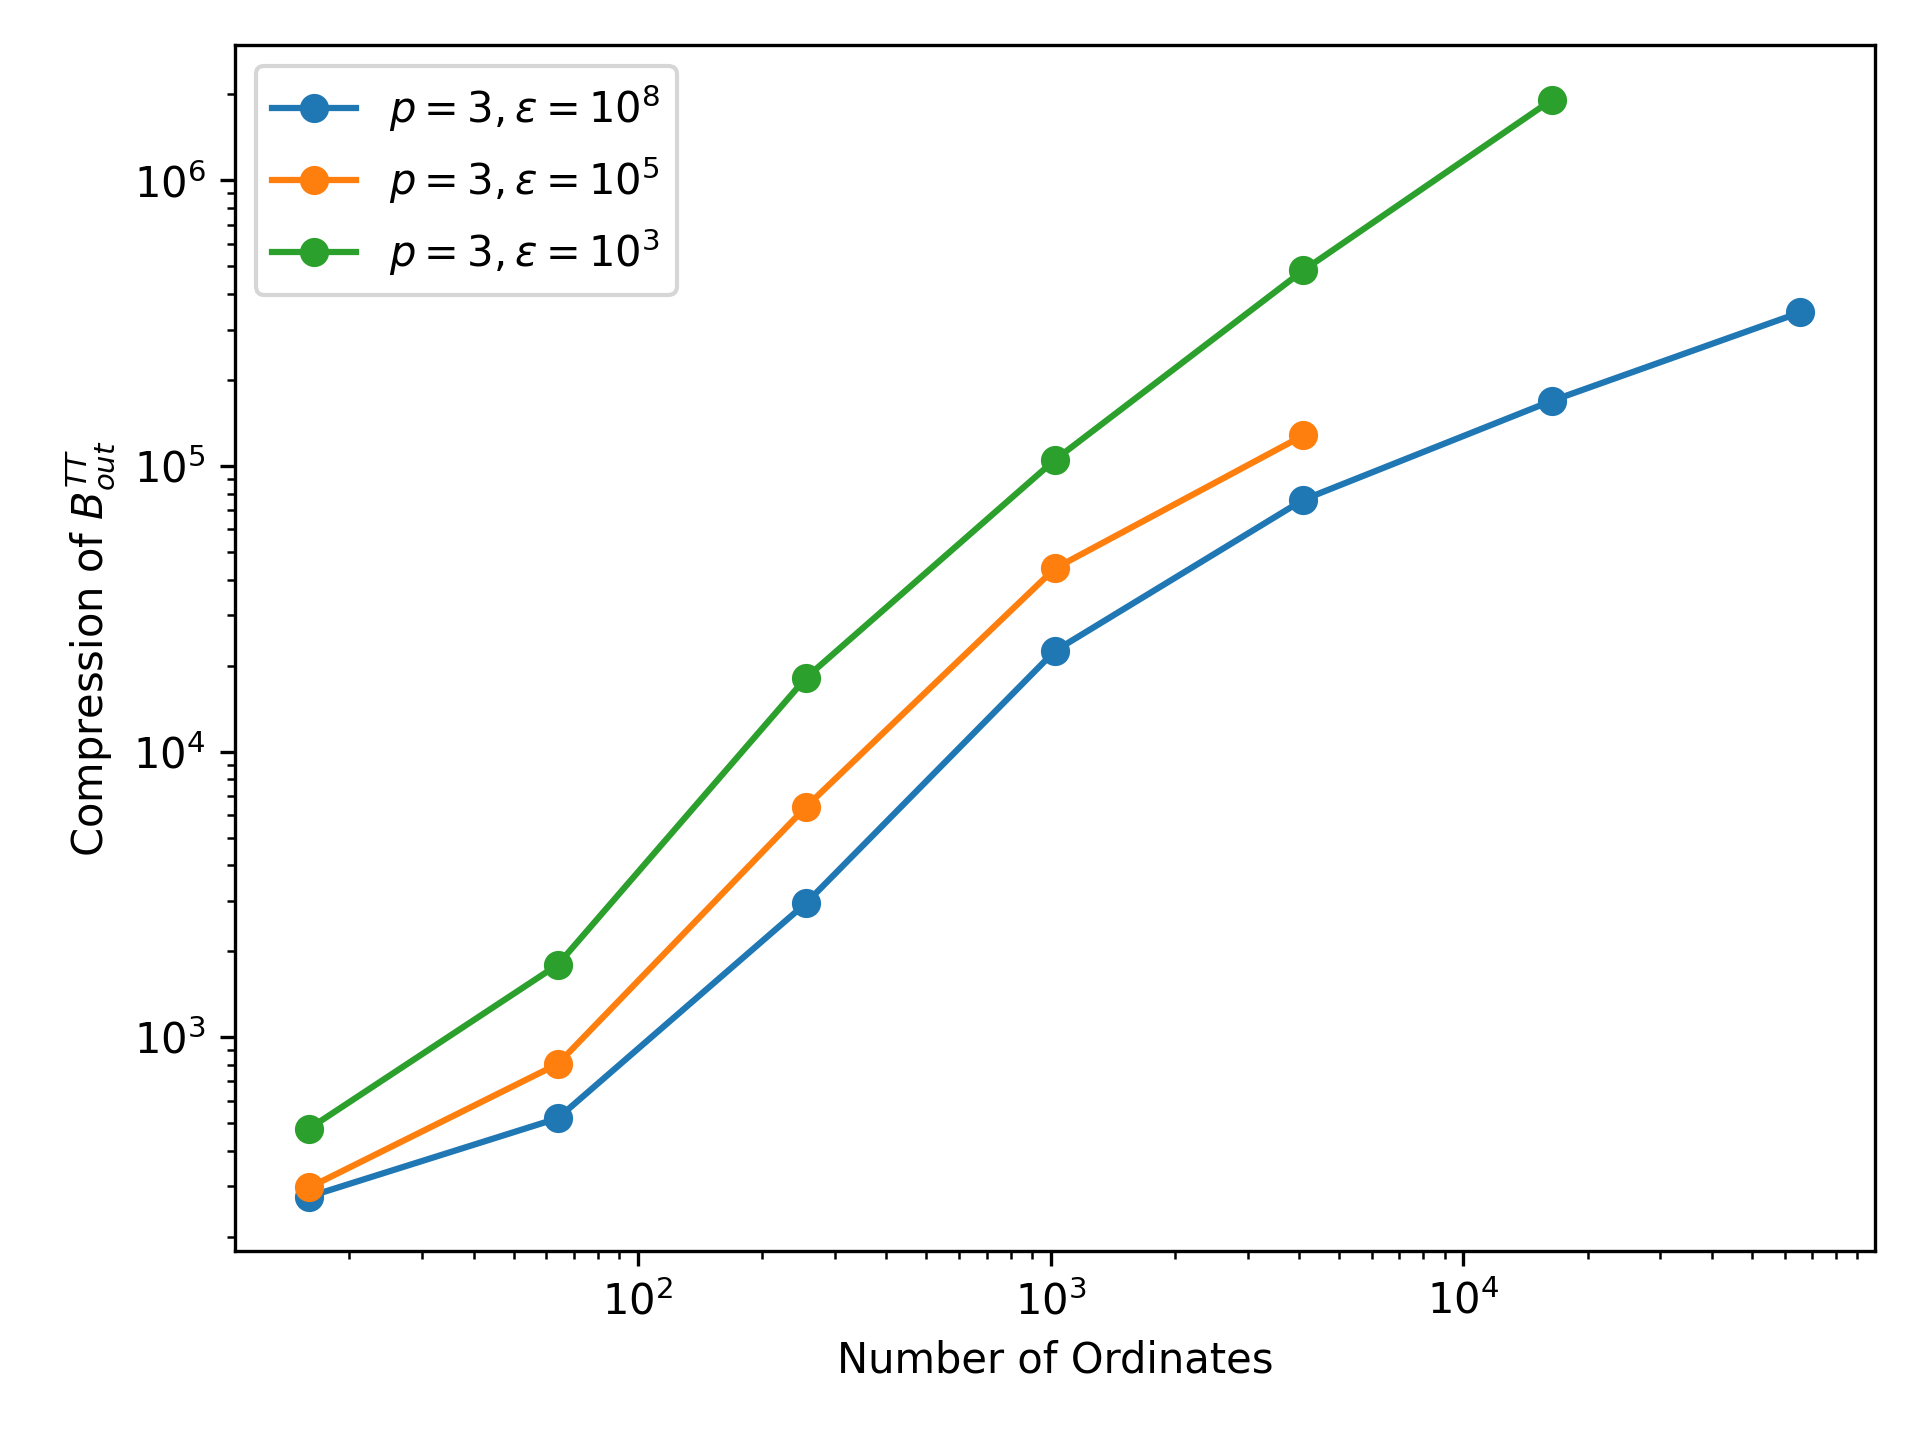
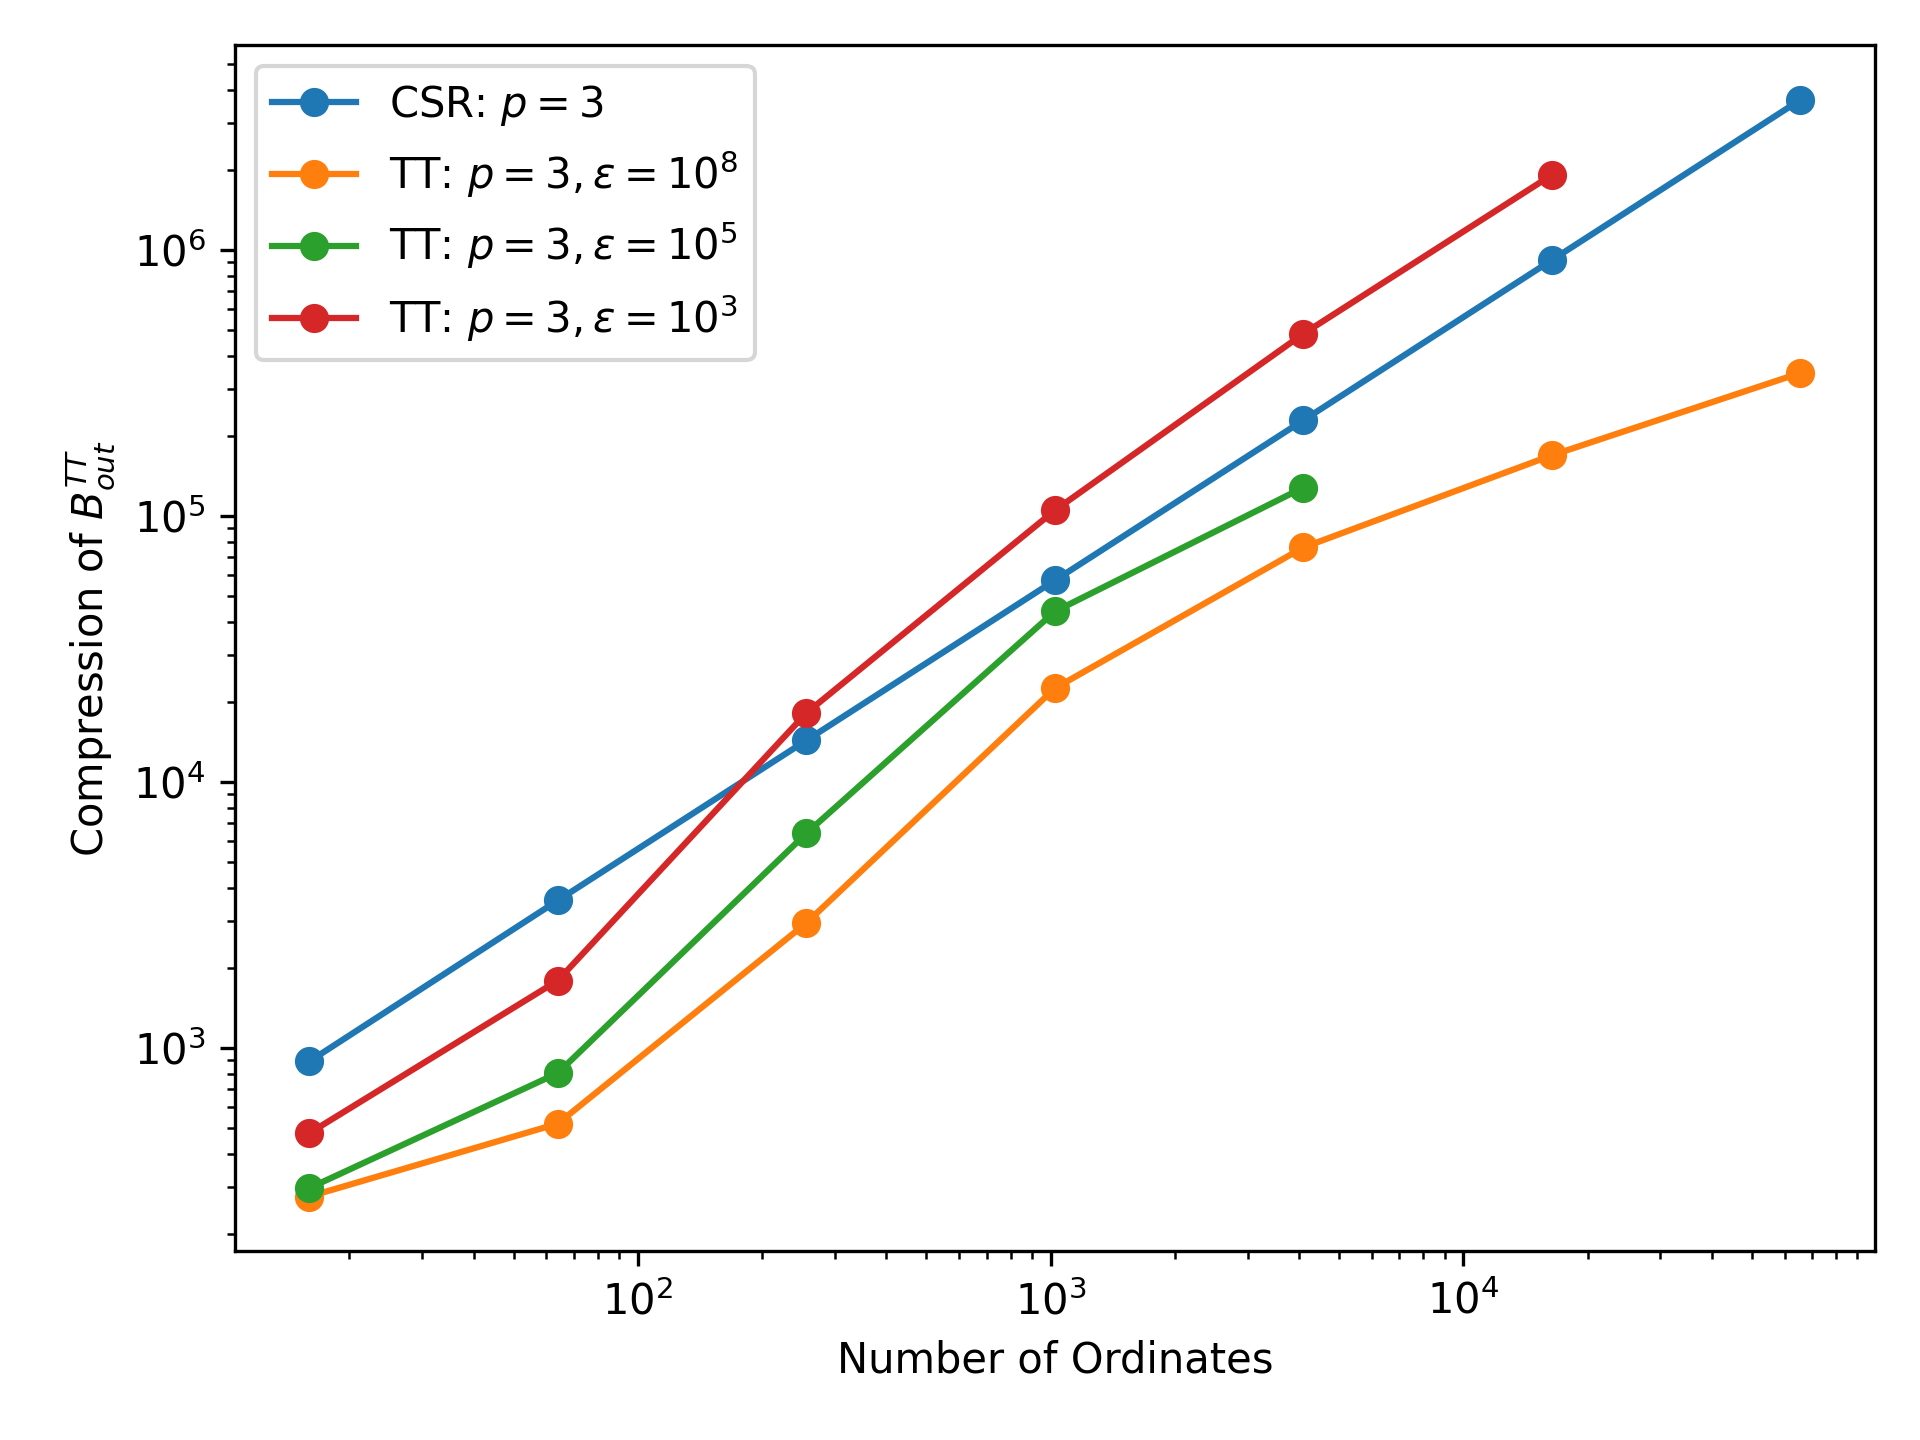
add CSR to compression plots

diff --git a/fixed_source/circle/plotting.py b/fixed_source/circle/plotting.py
@@ -304,10 +304,33 @@ if __name__ == "__main__":
         ),
     )
 
+    data2 = get_jsonl_data(
+        dir / "direction/processed_direction.jsonl",
+        lambda line_data: (
+            (True, line_data["compression"]["matrix"])
+            if line_data["device"] == "cpu" and "matrix" in line_data["compression"]
+            else (False, None)
+        ),
+    )
+
     plt.clf()
     for op in ["H", "S", "B_out"]:
         for degree in degrees:
             plt.clf()
+            plt.plot(
+                [
+                    d["num_ordinates"]
+                    for d in data2
+                    if d["eps"] == eps[0] and d["degree"] == degree
+                ],
+                [
+                    np.array(d[op]).max()
+                    for d in data2
+                    if d["eps"] == eps[0] and d["degree"] == degree
+                ],
+                "-o",
+                label=f"CSR: $p={degree}$",
+            )
             for i in range(len(eps)):
                 plt.plot(
                     [
@@ -321,7 +344,7 @@ if __name__ == "__main__":
                         if d["eps"] == eps[i] and d["degree"] == degree
                     ],
                     "-o",
-                    label=f"$p={degree},\\epsilon={eps2str(eps[i])}$",
+                    label=f"TT: $p={degree},\\epsilon={eps2str(eps[i])}$",
                 )
             plt.xlabel("Number of Ordinates")
             plt.ylabel(f"Compression of ${prettyOp(op, 'TT')}$")
